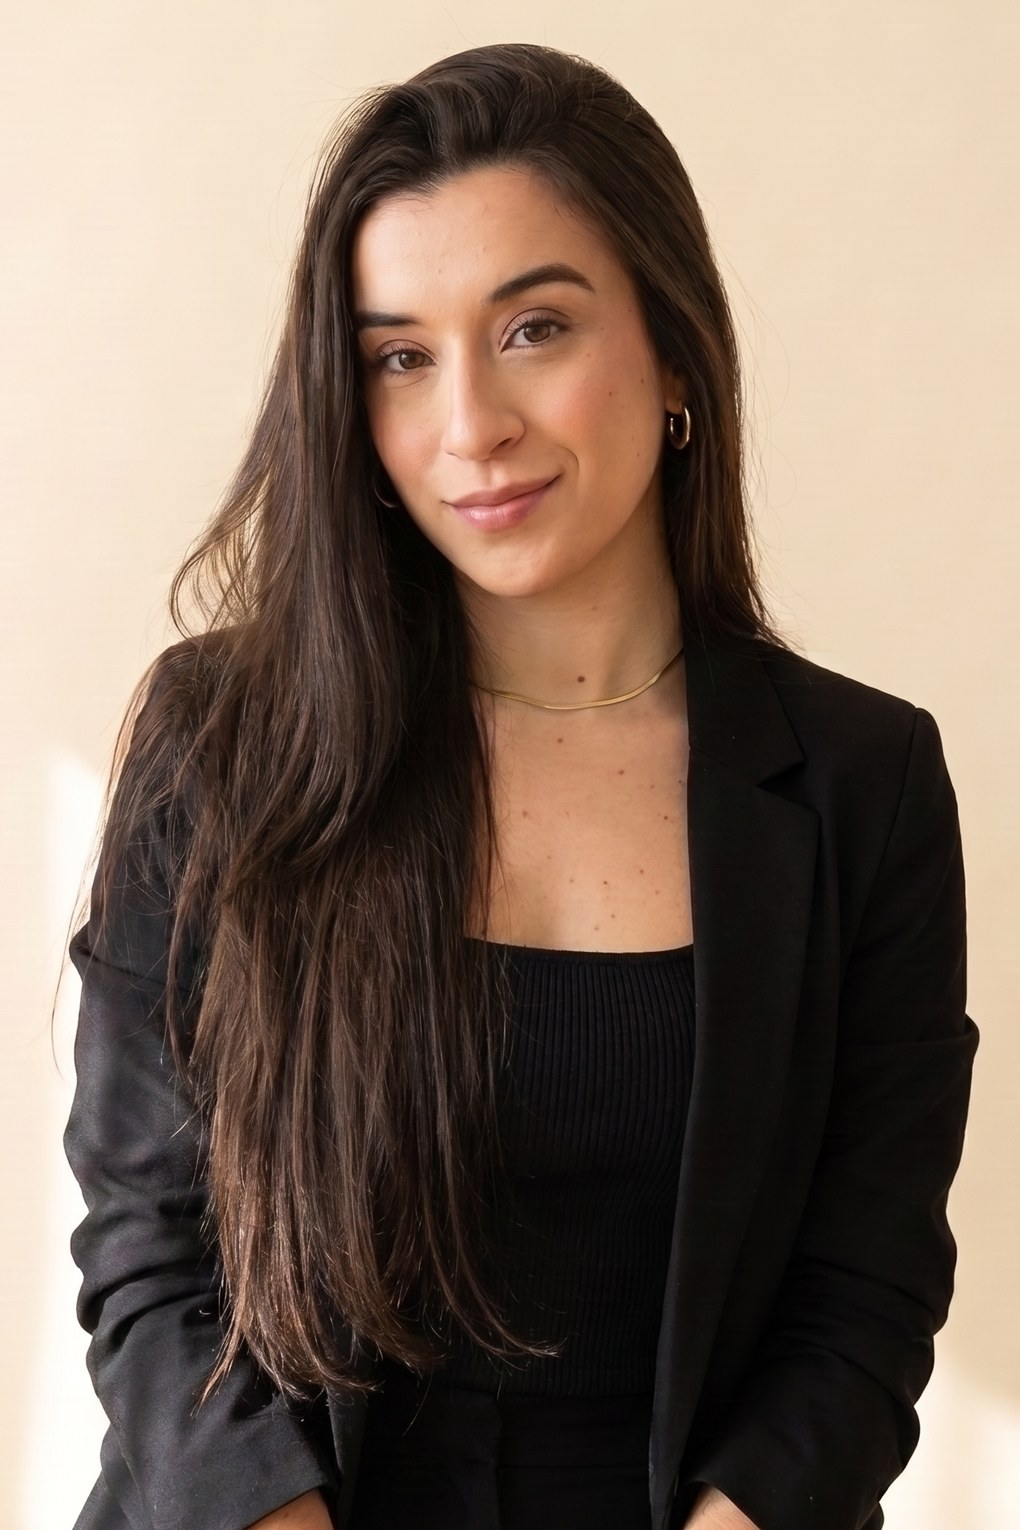
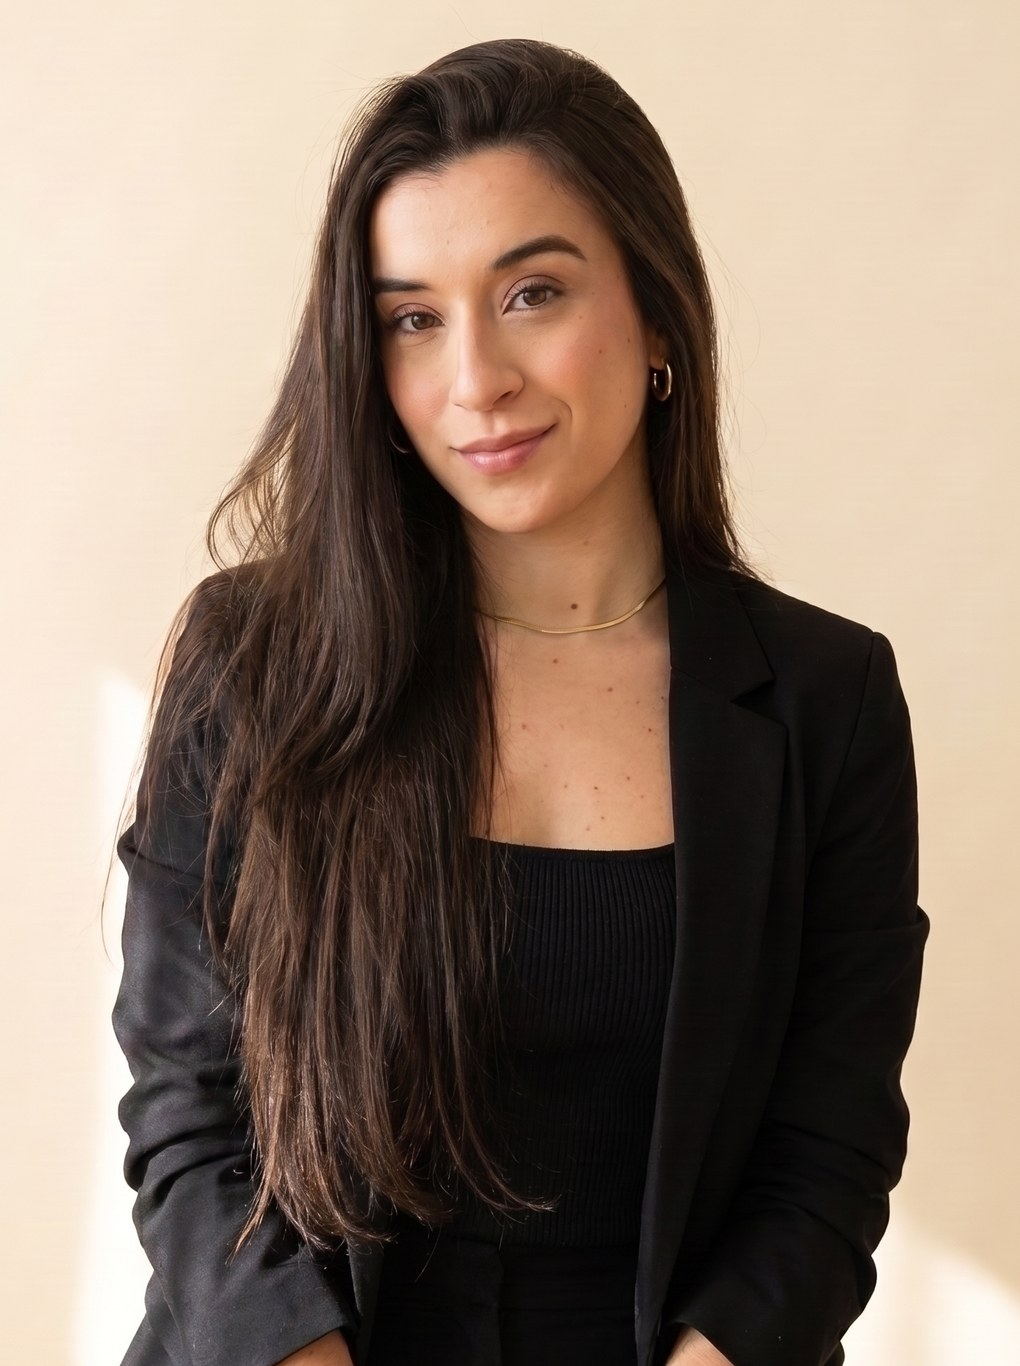
Previa: o card do Sobre passa a seguir a proporcao do arquivo
NAO PUBLICADO — aguardando confirmacao.

A usuaria reportou que o CSS estaria esticando ou cortando a foto do
Sobre. Medido na pagina, nao estava: arquivo 1020x1530 (0,6667), caixa
470x704 (0,6667), zero pixels descartados nos dois eixos,
object-position no padrao. `cover` nunca distorce — corta ou nao faz
nada, e ali nao fazia nada.

Quem desfazia o enquadramento era o arquivo, nao o CSS: o recorte
enviado e 3:4 e o painel era 2:3, entao eu havia aparado 156px das
laterais para encaixar. O conserto e nas duas pontas:

- .about-photo perde `aspect-ratio: 2 / 3` e `object-fit: cover` e ganha
  `height: auto`. A altura sai da proporcao do proprio arquivo.
- retrato.* passa a ser o recorte integral, 1456x1950 a partir de
  (180, 184), entregue em 1020x1366. Sem trim.

`object-fit: contain`, a outra sugestao, nao resolveria: a caixa seguiria
2:3 e a imagem 3:4 ganharia faixas vazias dentro do card.

O card fica mais baixo — 629px contra 704px no desktop, porque 3:4 e
menos alto que 2:3 na mesma largura. A moldura dourada deslocada
(.about__figure::after) acompanha sozinha, e o hero nao foi tocado:
continua com painel 2:3 fixo e `cover`.

Remedido depois: proporcao do arquivo e da caixa iguais em 0,7467, zero
descartado. O teste de foto passa a distinguir os dois casos — painel de
proporcao fixa no hero, proporcao do arquivo no Sobre — com uma checagem
explicita de "nada cortado pelo CSS" que falha se alguem puser altura
fixa ali de novo. As tres suites passam.
[…]

diff --git a/css/styles.css b/css/styles.css
@@ -519,10 +519,13 @@ body.nav-open { overflow: hidden; }
   border: 1px solid var(--gold-dim);
   border-radius: var(--radius-lg);
 }
+/* Sem `aspect-ratio` e sem `object-fit`: a altura sai da proporção do próprio
+   arquivo, então o card se adapta à imagem e o recorte chega inteiro à tela.
+   O hero continua com o painel 2:3 fixo — lá a coluna tem altura a defender. */
 .about-photo {
+  display: block;
   width: 100%;
-  aspect-ratio: 2 / 3;
-  object-fit: cover;
+  height: auto;
   border-radius: var(--radius-lg);
   box-shadow: var(--shadow-md);
 }

diff --git a/index.html b/index.html
@@ -128,7 +128,7 @@
         <figure class="about__figure" data-reveal>
           <picture>
             <source srcset="assets/retrato.webp" type="image/webp">
-            <img class="about-photo" src="assets/retrato.jpg" width="1020" height="1530"
+            <img class="about-photo" src="assets/retrato.jpg" width="1020" height="1366"
                  alt="Rafaela Schumacher, nutricionista, de blazer preto sobre fundo claro"
                  loading="lazy" decoding="async">
           </picture>
